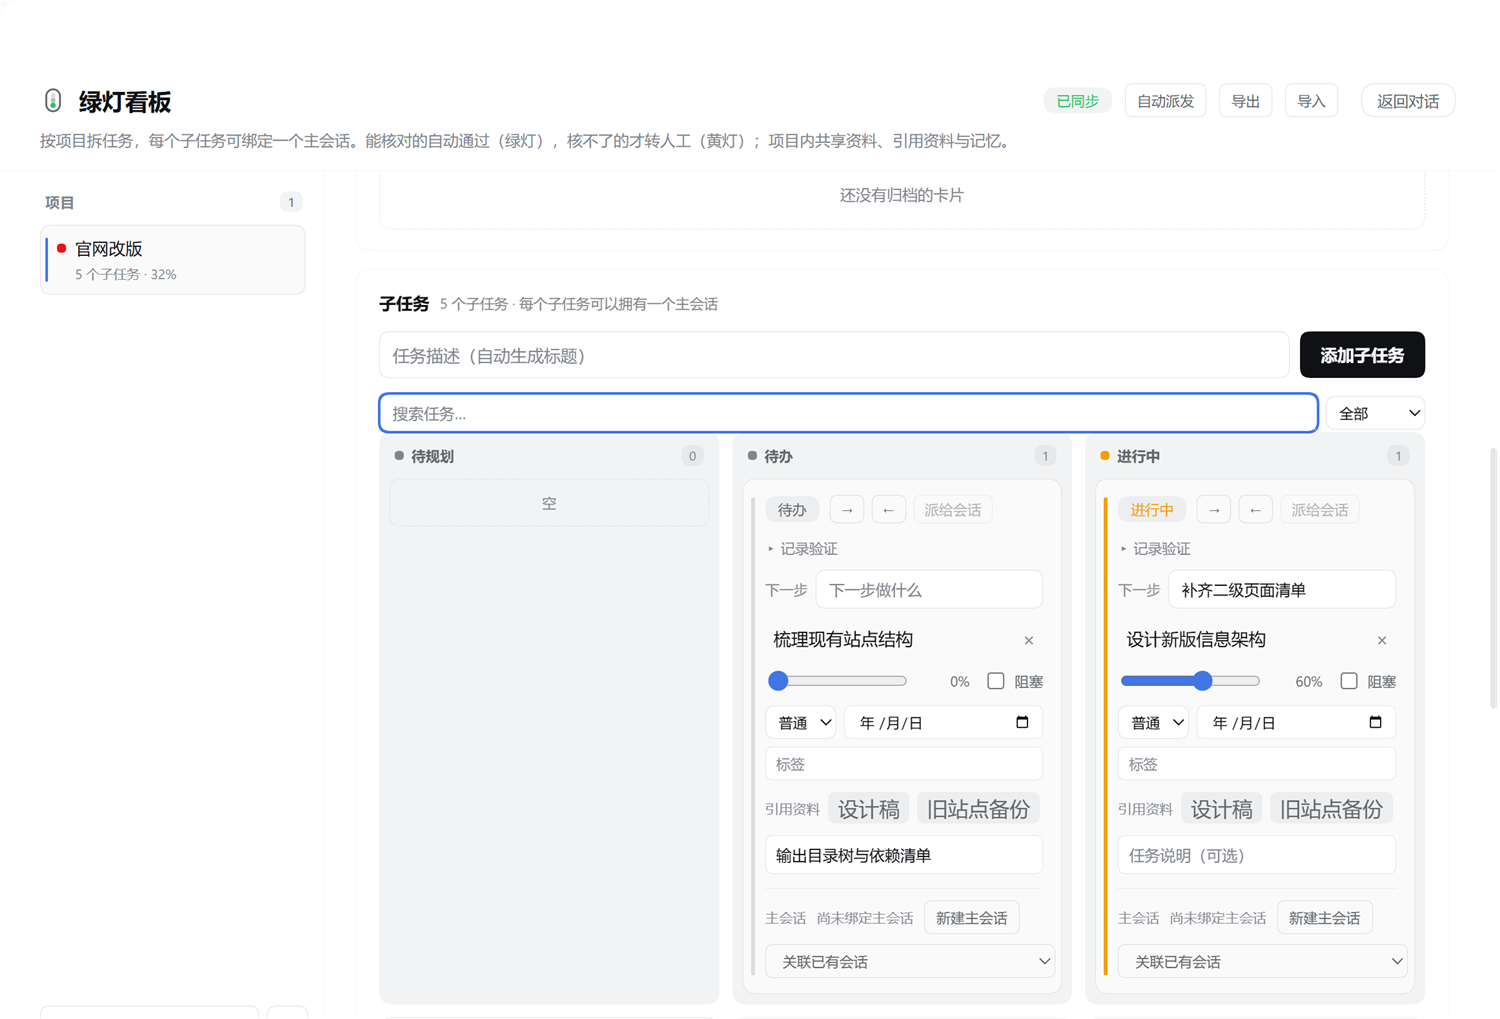
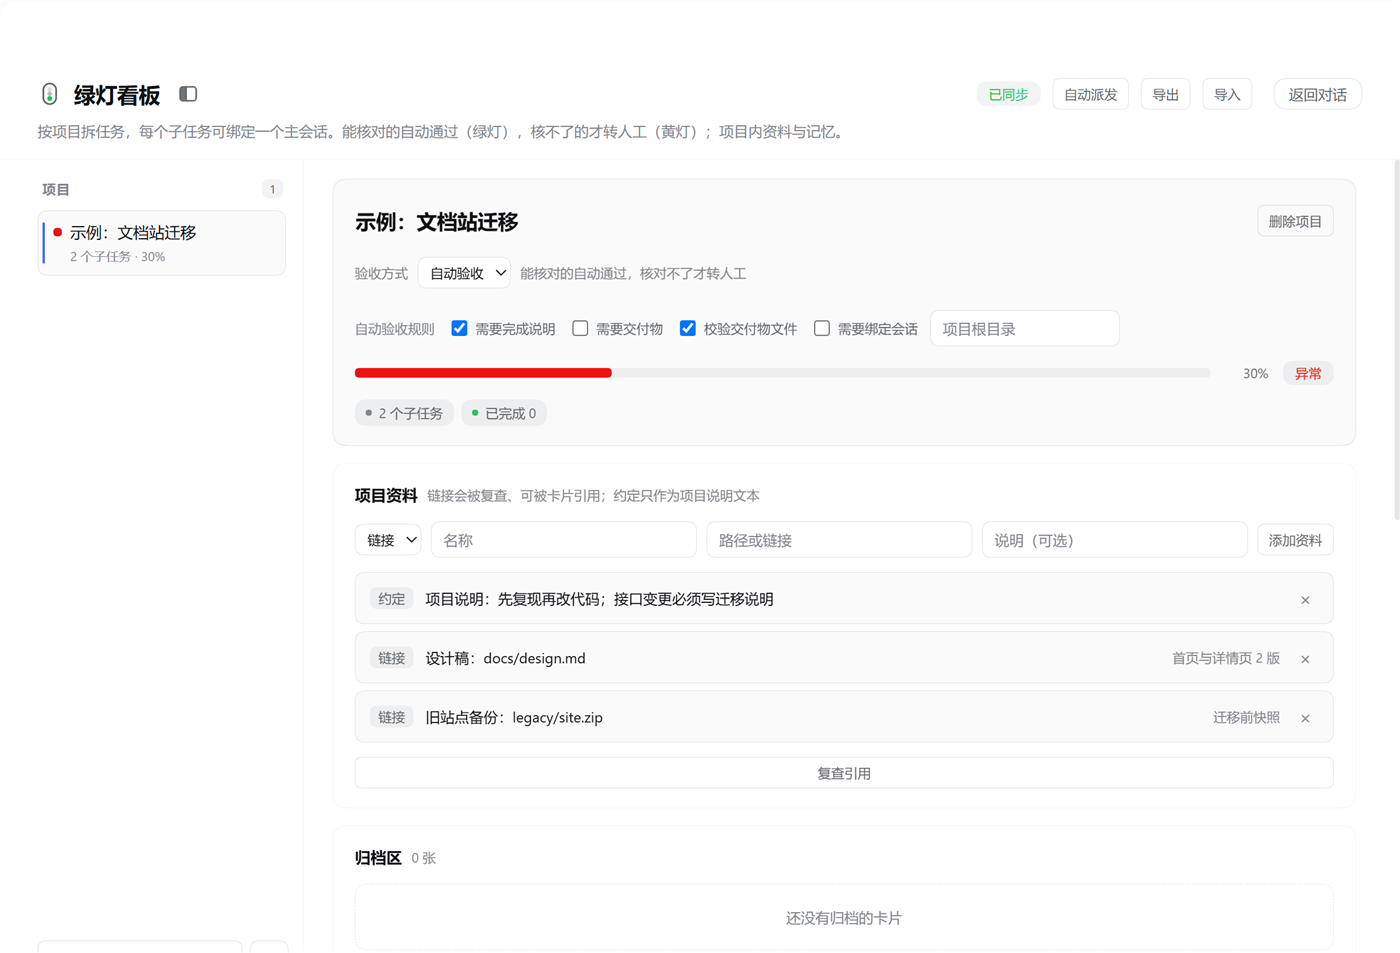
fix: sweep sees the references its own batch adds; retest and docs
A batch that added a link and swept in the same request probed the scratch board
with ids minted at apply time, so the sweep marked ids that never landed and the
reference that was actually missing stayed green. Ids are pinned while preparing
now, which makes the probe and the applied document agree.

Also: a wrapped sharedEntry.patch body is honoured instead of silently editing
nothing, socket tests skip on hosts that deny loopback TCP instead of failing,
and the reader-facing metadata is brought back in line (14 tools, typed
references, version 0.2.0, fresh screenshots).

diff --git a/host/test/http-integration.test.js b/host/test/http-integration.test.js
@@ -62,7 +62,48 @@ async function startBoard() {
   return startServer(createBoardRoutes(store))
 }
 
-test('an oversized body is answered with 413 over a real socket', async () => {
+/**
+ * Whether this process may open a socket to 127.0.0.1.
+ *
+ * Sandboxes that deny loopback connections turn every assertion below into a
+ * timeout instead of a verdict, so the suite probes itself once and skips rather
+ * than reporting a failure the code cannot fix. Probed lazily and memoised so a
+ * machine that allows loopback pays for one extra round trip in total.
+ * @returns {Promise<boolean>} true when a local socket round trip succeeds.
+ */
+let loopbackProbe = null
+async function loopbackAvailable() {
+  if (loopbackProbe !== null) return loopbackProbe
+  const server = createServer((_request, response) => { response.end('ok') })
+  try {
+    await new Promise((resolve, reject) => {
+      server.once('error', reject)
+      server.listen(0, '127.0.0.1', resolve)
+    })
+    const address = server.address()
+    const response = await fetch('http://127.0.0.1:' + address.port + '/')
+    await response.text()
+    loopbackProbe = true
+  } catch (error) {
+    loopbackProbe = false
+  } finally {
+    await new Promise((resolve) => { server.close(resolve) })
+  }
+  return loopbackProbe
+}
+
+/**
+ * @param t - the node:test context, so a blocked sandbox can skip instead of fail.
+ * @returns {Promise<boolean>} false when the test should return immediately.
+ */
+async function requireLoopback(t) {
+  if (await loopbackAvailable()) return true
+  t.skip('loopback TCP is blocked in this environment')
+  return false
+}
+
+test('an oversized body is answered with 413 over a real socket', async (t) => {
+  if (!(await requireLoopback(t))) return
   const server = await startBoard()
   try {
     // A real socket is the point: destroying the request instead of draining it
@@ -84,7 +125,8 @@ test('an oversized body is answered with 413 over a real socket', async () => {
   }
 })
 
-test('GET state answers over a real socket', async () => {
+test('GET state answers over a real socket', async (t) => {
+  if (!(await requireLoopback(t))) return
   const server = await startBoard()
   try {
     const response = await fetch(server.origin + '/greenlight/state')
@@ -97,7 +139,8 @@ test('GET state answers over a real socket', async () => {
   }
 })
 
-test('POST ops round-trips over a real socket and persists to disk', async () => {
+test('POST ops round-trips over a real socket and persists to disk', async (t) => {
+  if (!(await requireLoopback(t))) return
   const server = await startBoard()
   try {
     const forbidden = await fetch(server.origin + '/greenlight/ops', {

diff --git a/host/test/verify.test.js b/host/test/verify.test.js
@@ -1,10 +1,10 @@
 import assert from 'node:assert/strict'
-import { mkdtemp, mkdir, writeFile } from 'node:fs/promises'
+import { mkdtemp, mkdir, stat, writeFile } from 'node:fs/promises'
 import { tmpdir } from 'node:os'
 import { join } from 'node:path'
 import test from 'node:test'
 
-import { emptyBoard, applyOp } from '../board.js'
+import { emptyBoard, applyOp, applyOps } from '../board.js'
 import { attachVerification, prepareBatch, probeDeliverables } from '../verify.js'
 
 /**
@@ -181,4 +181,34 @@ test('a completion in the same batch sees deliverables declared earlier in that 
   assert.deepEqual(prepared[1].verification.missing, [], 'the probe must see the deliverable the batch just declared')
   assert.deepEqual(prepared[1].verification.unresolved, [])
   assert.equal(prepared[1].verification.checked, true)
+})
+
+test('a sweep in the same batch marks the reference that is actually missing', async () => {
+  const board = emptyBoard()
+  applyOp(board, { type: 'project.add', id: 'p1', name: 'P' })
+  const root = await mkdtemp(join(tmpdir(), 'greenlight-sweep-'))
+  await mkdir(join(root, 'docs'), { recursive: true })
+  await writeFile(join(root, 'docs', 'there.md'), 'x')
+  // The probe contract is a size, with 0 meaning "cannot see it".
+  const probe = async (path) => {
+    try {
+      const info = await stat(path)
+      return info.size
+    } catch (error) {
+      return 0
+    }
+  }
+  const applied = applyOps(board, await prepareBatch(board, [
+    { type: 'project.setAcceptance', projectId: 'p1', rootDir: root },
+    { type: 'reference.add', projectId: 'p1', kind: 'link', name: 'there', value: 'docs/there.md' },
+    { type: 'reference.add', projectId: 'p1', kind: 'link', name: 'gone', value: 'docs/gone.md' },
+    { type: 'project.recheck', projectId: 'p1' },
+  ], { stat: probe }))
+  assert.deepEqual(applied.rejected, [])
+  const references = applied.board.projects[0].references
+  const there = references.find(entry => entry.name === 'there')
+  const gone = references.find(entry => entry.name === 'gone')
+  assert.ok(there && gone, 'both references must exist after the batch')
+  assert.equal(there.staleSince, 0, 'the file that exists must not be flagged')
+  assert.ok(gone.staleSince > 0, 'the file that is missing must be flagged in the same batch')
 })

diff --git a/host/board.js b/host/board.js
@@ -9,7 +9,7 @@
  * Document versions
  *   1 (browser, flat tasks with queued/doing/done)
  *   2–4 (browser, projects with progress percentages)
- *   6 (this module: projects → subtasks with status, shared reference, memory)
+ *   6 (this module: projects → subtasks with status, project references, memory)
  *   7 (priority, due date, tags, references, trash)
  *   8 (automatic acceptance: a completed card is verified first and only lands
  *      in `review` when it cannot be verified, or when the project or the card
@@ -1606,13 +1606,18 @@ export function applyOp(board, op, origin) {
       })
     }
     // The old name of the entry patch is `sharedEntry.patch`; the contract also
-    // spells it `sharedEntry.update`, so both are accepted.
+    // spells it `sharedEntry.update`, so both are accepted. Version 9 sent the
+    // fields at the top level; a wrapped `patch` is read too, because accepting
+    // a shape whose fields would otherwise be dropped is better than a silent
+    // no-op that looks like a successful edit.
     case 'sharedEntry.patch':
     case 'sharedEntry.update': {
+      const source = isRecord(op.patch) ? { ...op, ...op.patch } : op
       const patch = {}
-      if ('name' in op) patch.name = op.name
-      if ('path' in op) patch.value = op.path
-      if ('description' in op) patch.description = op.description
+      if ('name' in source) patch.name = source.name
+      if ('path' in source) patch.value = source.path
+      if ('value' in source) patch.value = source.value
+      if ('description' in source) patch.description = source.description
       return updateReference(project, { referenceId: op.entryId, patch })
     }
     case 'sharedEntry.remove': {

diff --git a/host/verify.js b/host/verify.js
@@ -11,7 +11,7 @@
  */
 import { stat } from 'node:fs/promises'
 import { isAbsolute, join } from 'node:path'
-import { applyOps, findProject, findTask } from './board.js'
+import { applyOps, createId, findProject, findTask } from './board.js'
 
 /**
  * @param path - candidate path.
@@ -121,13 +121,19 @@ export async function probeProject(project, options) {
  */
 export async function prepareOp(board, op, options) {
   if (op === null || typeof op !== 'object') return op
-  if (op.type === 'project.recheck') {
-    const project = typeof op.projectId === 'string' ? findProject(board, op.projectId) : undefined
-    if (project === undefined) return op
+  // An id minted while applying would differ from the one the scratch board handed
+  // a later probe, so a sweep could mark an entry that never lands and miss the one
+  // that does. Pinning it here keeps the prepared batch and the applied batch equal.
+  const pinned = op.type === 'reference.add' && (typeof op.id !== 'string' || op.id === '')
+    ? { ...op, id: createId('ref-') }
+    : op
+  if (pinned.type === 'project.recheck') {
+    const project = typeof pinned.projectId === 'string' ? findProject(board, pinned.projectId) : undefined
+    if (project === undefined) return pinned
     const sweep = await probeProject(project, options)
-    return { ...op, staleEntries: sweep.staleEntries, deliverables: sweep.deliverables }
+    return { ...pinned, staleEntries: sweep.staleEntries, deliverables: sweep.deliverables }
   }
-  return attachVerification(board, op, options)
+  return attachVerification(board, pinned, options)
 }
 
 /**

diff --git a/host/test/features.test.js b/host/test/features.test.js
@@ -122,6 +122,12 @@ test('references can be added, patched, referenced and removed', () => {
   assert.equal(applyOp(board, { type: 'sharedEntry.update', projectId: 'p', entryId: 's9', path: 'docs/newer.md' }), null)
   assert.equal(board.projects[0].references.find(entry => entry.id === 's9').value, 'docs/newer.md')
   assert.equal(applyOp(board, { type: 'sharedEntry.patch', projectId: 'p', entryId: 'nope', path: 'x' }), 'unknown_reference')
+  // A wrapped patch is tolerated as well: dropping its fields would look like a
+  // successful edit while changing nothing.
+  assert.equal(applyOp(board, { type: 'sharedEntry.patch', projectId: 'p', entryId: 's9', patch: { name: '旧入口改名' } }), null)
+  assert.equal(board.projects[0].references.find(entry => entry.id === 's9').name, '旧入口改名')
+  assert.equal(applyOp(board, { type: 'sharedEntry.patch', projectId: 'p', entryId: 's9', patch: { path: 'docs/wrapped.md' } }), null)
+  assert.equal(board.projects[0].references.find(entry => entry.id === 's9').value, 'docs/wrapped.md')
   assert.equal(applyOp(board, { type: 'sharedEntry.remove', projectId: 'p', entryId: 's9' }), null)
   assert.equal(board.projects[0].references.some(entry => entry.id === 's9'), false)
 })

diff --git a/CHANGELOG.md b/CHANGELOG.md
@@ -2,6 +2,32 @@
 
 All notable changes to this project are documented here.
 
+## 0.2.0
+
+**Typed references (breaking)**
+- The free-text shared body and the reference-entry list are one typed list now:
+  `project.references[]` holds `link` entries (a path or URL the Host re-checks, marks stale
+  and cards can point at) and `note` entries (convention text that is never probed)
+- Old documents migrate on read: `project.shared` becomes a `note` named 项目说明 at the top,
+  `project.sharedEntries` becomes `link` entries that keep their ids, so card `refs` keep working
+- Tools: `greenlight_shared_set` and `greenlight_shared_entry` are replaced by
+  `greenlight_reference` (list / add / update / remove); the tool count drops from 15 to 14
+- The Host still accepts the old operation names (`project.setShared`, `sharedEntry.*`) so an
+  older client does not break mid-upgrade
+
+**Board**
+- The panel is called 绿灯看板 / Greenlight Board, with a traffic-light mark whose green lamp is lit
+- The project rail collapses from a single icon beside the title; collapsed it renders nothing at
+  all, the content takes the full width, and the state is remembered per browser
+
+**Fixes**
+- A batch that patched deliverables and submitted in one request probed against the document from
+  before the patch, so the deliverables looked unverifiable (probes now follow batch order)
+- Whole-document imports and replacements park the previous file first
+  (`board.json.backup-<stamp>-before-replace`, newest ten kept)
+- Restoring archived cards rebuilt a project without its `references`
+- Socket integration tests skip instead of failing on hosts that deny loopback TCP
+
 ## 0.1.0
 
 First public release.

diff --git a/README.md b/README.md
@@ -12,7 +12,9 @@
 DeepSeek Harness 插件。左栏增加「绿灯看板」入口：按项目拆分任务、每个子任务绑定一个主会话，
 agent 用 `greenlight_*` 工具交活时附上**完成说明 / 验证项 / 交付物**，由 Host 判定是否放行。
 
-<img alt="绿灯看板：项目列表、项目概览、子任务六列与归档区" src="docs/board.png" width="900">
+<img alt="绿灯看板：标题右侧是项目栏开关；项目概览、自动验收规则与「项目资料」（约定与链接两类）" src="docs/board.png" width="900">
+
+<img alt="同一页面向下：归档区，以及六列子任务；卡片上的「引用资料」来自项目资料列表" src="docs/columns.png" width="900">
 
 ## 为什么叫「绿灯」
 
@@ -87,7 +89,7 @@ greenlight_task_submit {
 
 **3. 看结果**：证据齐、交付物真实存在时卡片**自己进「已完成」**；否则落到「待验收」并写明原因，人再决定通过或打回。
 
-## Agent 工具（15 个）
+## Agent 工具（14 个）
 
 | 工具 | 作用 |
 |---|---|

diff --git a/README.en.md b/README.en.md
@@ -14,7 +14,9 @@ projects and subtasks, each subtask can own a main Session, and when an agent su
 the `greenlight_*` tools it reports **a completion note, verification claims and deliverables** —
 the Host decides whether the card may close.
 
-<img alt="Greenlight board: project rail, project summary, six task columns and the archive" src="docs/board.png" width="900">
+<img alt="Greenlight board: the project-rail toggle beside the title, the project summary with acceptance rules, and the typed references list" src="docs/board.png" width="900">
+
+<img alt="The same page further down: the archive and six task columns, with card reference chips drawn from the project references" src="docs/columns.png" width="900">
 
 ## Why "green light"
 
@@ -87,7 +89,7 @@ greenlight_task_submit {
 3. If the evidence holds and the deliverables exist, the card closes itself. Otherwise it lands in
    **待验收 / review** with the reason spelled out, and a human decides.
 
-## Agent tools (15)
+## Agent tools (14)
 
 | Tool | Purpose |
 |---|---|
